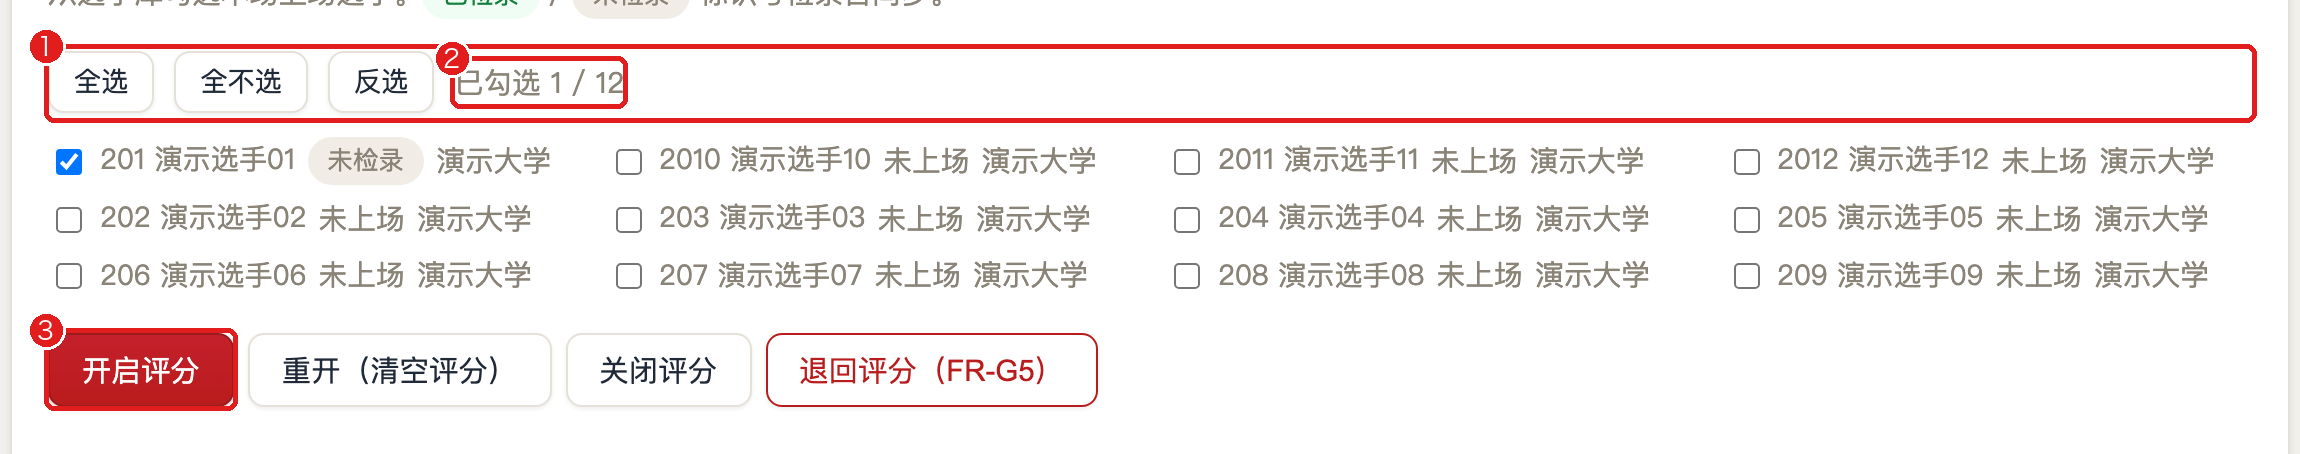
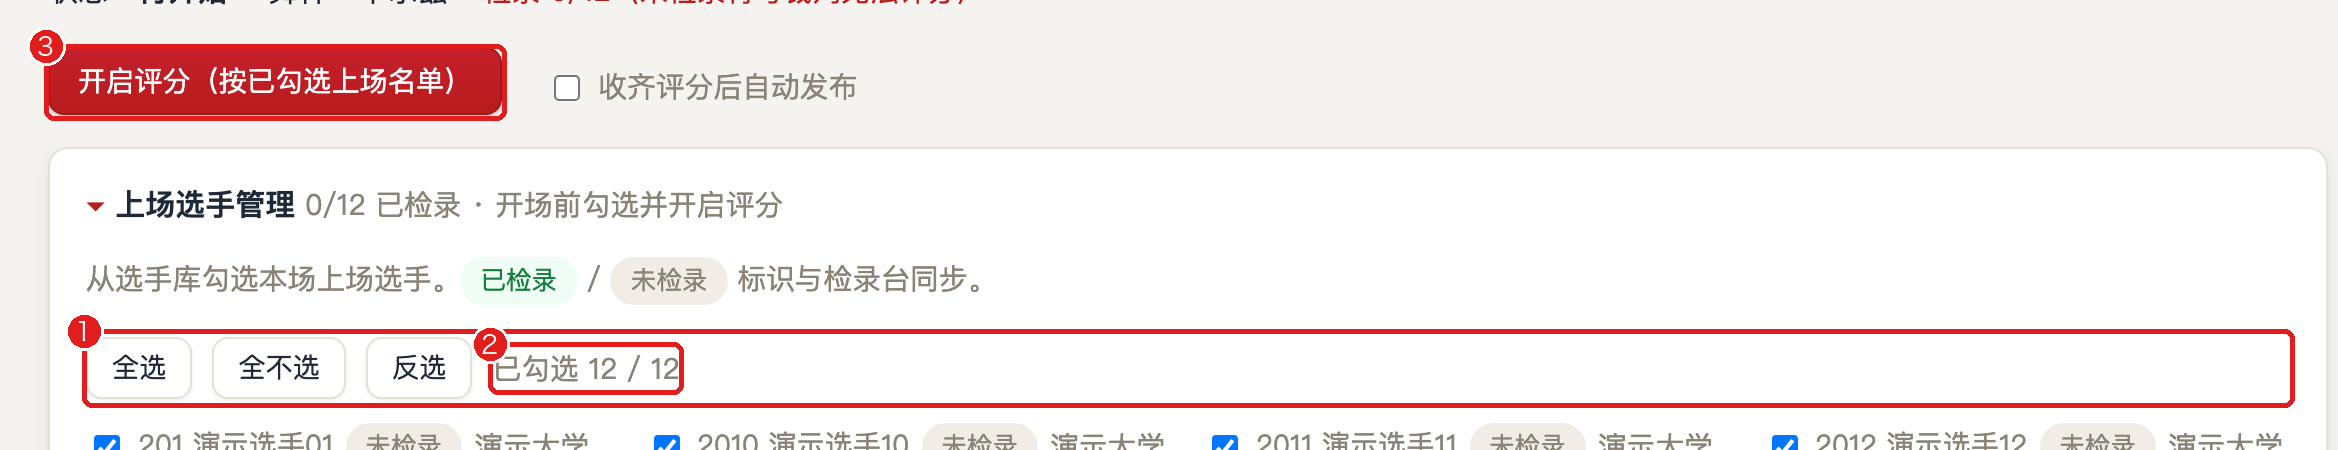
R58说明书v5.0：筹备向导升为开篇首推功能（三步办好一场赛事+实机截图r58）；评分基础卡（顺位法多数票/Mark制晋级勾选/评分制0~10）；全文精简重写（合并多场并行/配色入卡，删冗余描述，角色表补总管理员与赛事管理员）；管理员章节对齐新流程（一键开启评分/晋级引导条/审计）

diff --git a/webapp/server/templates/manual.html b/webapp/server/templates/manual.html
@@ -3,251 +3,172 @@
 {% block nav %}<a href="/">首页</a>{% endblock %}
 {% block content %}
 <h1>赛事评分系统 · 使用说明</h1>
-<p class="muted">本指南面向现场每一类使用者：怎么登录、在赛事的哪个阶段做什么、会看到什么。
-按角色查找你的<b>操作步骤</b>即可，无需了解系统实现。关键步骤配<b>实机标注图</b>（红框 + 编号对应图下说明），
-整体界面另附全页截图。</p>
+<p class="muted">面向体育舞蹈赛事的评分与流程工具。按角色查找你的操作即可；每一步都配实机标注图。</p>
 
 <div class="card">
-  <h2>角色速览：怎么登录、用什么设备</h2>
+  <h2>三步办好一场赛事（新赛事筹备向导）</h2>
+  <p>创建赛事、导入名单、排赛程、建工作人员账号，全部在一个向导里完成。</p>
   <table>
-    <tr><th>角色</th><th>怎么登录</th><th>设备</th><th>参与的阶段</th></tr>
-    <tr><td>管理员</td><td>登录页 → 角色选「管理员」→ 输入管理员口令</td><td>桌面电脑为主</td><td>赛前筹备 · 赛中控制 · 账号管理 · 文件分发 · 赛后收尾</td></tr>
-    <tr><td>检录长 / 检录员</td><td>登录页 → 角色选「检录长/检录员」→ 输入<b>用户名 + 口令</b>（账号由管理员分发）</td><td>手机 / 平板</td><td>每场开始前（检录处）</td></tr>
-    <tr><td>主持人</td><td>登录页 → 角色选「主持人」→ 输入<b>用户名 + 口令</b>（账号由管理员分发）</td><td>手机 / 平板</td><td>开场前补检录 · 成绩播报</td></tr>
-    <tr><td>裁判</td><td><b>免口令直达链接</b>：<code>/login?role=judge&amp;judge=编号</code>（如 J1），建议存为手机书签</td><td>手机</td><td>每场评分</td></tr>
-    <tr><td>观众</td><td>无需登录，直接打开公开页</td><td>手机</td><td>全程查询</td></tr>
-    <tr><td>大屏</td><td>现场屏幕打开大屏页挂机，无需登录</td><td>1080p 大屏</td><td>全程展示</td></tr>
+    <tr><th style="width:6em">第 1 步</th><td><b>总管理员：建赛并发账号</b>——在赛事管理页填写名称/日期/地点，勾选展开「同时创建赛事管理员账号」，一次提交。<span class="muted">只有总管理员能建赛；赛事管理员口令请当面或私密发给组织者。</span></td></tr>
+    <tr><th>第 2 步</th><td><b>赛事管理员：五步筹备向导</b>——用专属入口登录后自动进入向导：① 确认赛事信息 → ② 导入选手 → ③ 导入裁判 → ④ 导入赛程 → ⑤ 创建检录/主持账号 → 完成。每步都有 CSV 模板下载和导入结果反馈。</td></tr>
+    <tr><th>第 3 步</th><td><b>比赛日</b>——控制台「一键开启评分」→ 检录台点名 → 裁判评分 → 收齐自动算分 → 结果中心发布（可开「自动发布」）→ 主持台播报。</td></tr>
   </table>
-  <p class="muted">口令由赛事管理员设定；裁判免口令直达链接请在开赛前向裁判长领取并分发。</p>
+  <img src="/static/manual/r58/wiz1.png" alt="筹备向导：赛事信息" loading="lazy">
+  <img src="/static/manual/r58/wiz2.png" alt="筹备向导：导入选手" loading="lazy">
+  <p class="muted">向导页示例：① 下载模板 ② 选择 CSV ③ 上传导入；页首步骤条显示进度，页面底部实时显示当前数量。</p>
+  <p class="muted">CSV 三列模板要点——选手：<code>背番号,项目编号,姓名,学校/单位</code>（一人多项目填多行，集体舞用 T 编号）；裁判：<code>裁判ID,姓名</code>（建议 5 或 7 名）；赛程：<code>场次编号,场次名称,项目编号,轮次,舞种,评分类型,晋级人数,参赛选手</code>（评分类型填 SKATING/MARK/SCORE；预赛填晋级人数，决赛填 0 且参赛选手可留空）。</p>
 </div>
 
 <div class="card">
   <h2>多场赛事并行</h2>
-  <p>系统支持同时存在<b>多场赛事</b>（如「上半年积分赛」与「秋季公开赛」），各自的数据完全独立。
-  在「赛事管理」页可随时创建新赛事；「激活」不再互斥——多场赛事可同时处于激活中，
-  管理员可在各场的导入、赛程编排、控制台、结果中心之间并行操作。</p>
-  <p>检录台、主持台、裁判工作台、公开赛程/成绩页与现场大屏展示的是其中<b>最新激活</b>的一场（即当前「台前」赛事）。
-  上一场赛事的数据仍然保留，管理员可随时进入其结果中心查看与导出。</p>
+  <p class="muted">多场赛事可同时激活、数据独立；公开页/检录台/裁判台展示最新激活的一场。各赛事由自己的赛事管理员管理，互不干扰。</p>
 </div>
 
 <div class="card">
-  <h2>深浅配色</h2>
-  <p>页面右上角的 🌙 / ☀ 按钮可切换<b>深色 / 浅色</b>模式，选择会自动记忆（手机、平板、桌面通用）；
-  首次打开时跟随系统偏好。现场大屏页固定为深色，不受切换影响。</p>
+  <h2>角色速览</h2>
+  <table>
+    <tr><th>角色</th><th>怎么登录</th><th>设备</th></tr>
+    <tr><td>总管理员</td><td><code>/login</code>，口令由开发者持有（不发放）</td><td>桌面</td></tr>
+    <tr><td>赛事管理员</td><td>本赛事登录页，角色「赛事管理员」+ 用户名口令</td><td>桌面 / 平板</td></tr>
+    <tr><td>检录长 / 检录员</td><td>本赛事登录页，角色「检录长 / 检录员」+ 用户名口令</td><td>手机 / 平板</td></tr>
+    <tr><td>主持人</td><td>本赛事登录页，角色「主持人」+ 用户名口令</td><td>手机 / 平板</td></tr>
+    <tr><td>裁判</td><td>免口令直达链接 <code>/login?role=judge&amp;judge=编号</code></td><td>手机</td></tr>
+    <tr><td>观众</td><td>免登录，直接浏览</td><td>任意</td></tr>
+  </table>
+  <p class="muted">页面右上角 🌙/☀ 切换深浅配色；左上角「体育舞蹈工具箱」可随时回到工具箱首页。</p>
 </div>
 
 <div class="manual-lifecycle card">
-  <h2>赛事生命周期：谁在哪个环节上场</h2>
+  <h2>赛事生命周期</h2>
   <div class="lc-flow">
-    <span>赛前筹备<small>管理员</small></span><i>→</i>
-    <span>账号分发<small>管理员</small></span><i>→</i>
-    <span>检录<small>检录长/检录员 → 主持人</small></span><i>→</i>
+    <span>筹备向导<small>赛事管理员</small></span><i>→</i>
+    <span>开场<small>管理员</small></span><i>→</i>
+    <span>检录<small>检录/主持</small></span><i>→</i>
     <span>评分<small>裁判</small></span><i>→</i>
-    <span>计算·晋级·发布<small>管理员</small></span><i>→</i>
-    <span>成绩播报<small>主持人</small></span><i>→</i>
-    <span>公示查询<small>观众</small></span><i>→</i>
-    <span>大屏展示<small>全程</small></span>
+    <span>算分·发布<small>管理员</small></span><i>→</i>
+    <span>晋级<small>管理员</small></span><i>→</i>
+    <span>播报<small>主持</small></span><i>→</i>
+    <span>公示<small>观众</small></span>
   </div>
 </div>
 
 <div class="manual-nav card">
-  <a href="#admin">🧑💼 管理员</a>
-  <a href="#marshal">📋 检录长 / 检录员</a>
-  <a href="#host">🎙 主持人</a>
+  <a href="#admin">🧑💼 赛事管理员</a>
+  <a href="#score-basics">📖 评分基础</a>
+  <a href="#marshal">📋 检录</a>
+  <a href="#host">🎙 主持</a>
   <a href="#judge">⚖ 裁判</a>
   <a href="#public">👀 观众</a>
   <a href="#screen">📺 大屏</a>
 </div>
 
-<h2 id="admin">一、管理员：从建赛到收官</h2>
-
-<h3>阶段 A · 赛前筹备</h3>
-<div class="step"><h3>第 1 步 · 登录</h3>
-  <p>打开登录页，角色选「管理员」，输入管理员口令。</p>
-  <img src="/static/manual/r50/a-login.png" alt="管理员登录（标注）" loading="lazy">
-  <p class="muted">① 角色选「管理员」　② 输入管理员口令　③ 点「登录」进入系统</p>
-</div>
-<div class="step"><h3>第 2 步 · 创建赛事（支持多场并行）</h3>
-  <p>赛事管理页填写赛事名称（必填）、日期、地点，点「创建」。列表里每场赛事都有独立的「导入 / 赛程 / 结果」入口；
-  未激活的赛事可随时「激活」上线，多场可同时处于激活中（见上文「多场赛事并行」）。</p>
-  <img src="/static/manual/r50/a-events.png" alt="赛事管理：创建与多赛事列表（标注）" loading="lazy">
-  <p class="muted">① 填赛事名称点「创建」　② 每场赛事独立进入 导入 / 赛程 / 结果　③ 未激活的赛事可随时「激活」</p>
-</div>
-<div class="step"><h3>第 3 步 · 分发账号（操作全留痕）</h3>
-  <p>「用户」页为检录长、检录员、主持人创建各自账号（用户名 + 口令），并分发裁判免口令直达链接。
-  停用账号立即踢下线；重置口令后请通知本人。</p>
-  <img src="/static/manual/r50/u-users.png" alt="用户与角色管理" loading="lazy">
-  <p>页首「审计日志」记录全部敏感操作——退回评分、撤销检录、重置口令、停用/启用、删除类操作，
-  每条都有时间、操作人、对象与详情，出争议时倒查有据。</p>
-  <img src="/static/manual/r50/a-users-audit.png" alt="审计日志（标注）" loading="lazy">
-  <p class="muted">① 「审计日志」默认收起，点开即看　② 退回评分 / 撤销检录 / 口令 / 停启用 / 删除 全部署名留痕</p>
-</div>
-<div class="step"><h3>第 4 步 · 导入报名数据</h3>
-  <p>「导入」页依次上传三份表格：选手名单（集体队伍以 T 编号报名）、裁判名单、赛程安排。
-  每类数据都有「下载模板」，表头即解析列；传错的部分会逐行提示，可修正后重传。</p>
-  <img src="/static/manual/r50/a-import.png" alt="导入页标注：模板下载与上传入口" loading="lazy">
-  <p class="muted">① 每类数据都有「下载模板」（表头即解析列）　② 按模板填好后上传　③ 赛程模板含全部列</p>
-</div>
-<div class="step"><h3>第 5 步 · 编排赛程与比赛顺序</h3>
-  <p>「赛程编排」页以项目树展示全部场次（可按状态筛选），支持添加、修改、删除未开始场次，
-  每行可直接进控制台。「比赛顺序（防连场）」自动生成选手休息最充分的走场顺序，可逐行微调后保存；
-  相邻场次同批选手连轴上场会以「连场 N 人」徽章提醒。</p>
+<h2 id="admin">一、赛事管理员：赛事日常管理</h2>
+<div class="step"><h3>数据与名单调整</h3>
+  <p>筹备向导覆盖首次导入；之后的增补修改走两个入口：<b>导入页</b>重传整份 CSV（传错逐行提示，可反复重传），
+  或<b>赛程编排页</b>直接添加/修改/删除未开始场次。已开始评分的场次修改名单会清空评分，请谨慎。</p>
+  <img src="/static/manual/r50/a-import.png" alt="导入页（标注）" loading="lazy">
   <img src="/static/manual/r50/a4-schedule-tree.png" alt="赛程编排与防连场" loading="lazy">
 </div>
-
-<h3>阶段 B · 赛中控制</h3>
-<div class="step"><h3>第 6 步 · 开场与现场监控</h3>
-  <p>场次控制台：确认上场名单后「开启评分」。评分中页首常驻裁判提交进度矩阵（自动实时刷新）
-  与「关闭评分 / 退回评分」快捷操作；上场名单收起为可展开面板，含每名选手的检录状态徽章。</p>
-  <img src="/static/manual/r50/a-console-open.png" alt="开场操作标注：全选与开启评分" loading="lazy">
-  <p class="muted">① 全选/全不选/反选上场选手　② 勾选数实时显示　③ 「开启评分」后裁判即可打分</p>
+<div class="step"><h3>控制台：每场比赛的操作台</h3>
+  <p>状态行常驻「<b>开启评分（按已勾选上场名单）</b>」——名单来自导入/晋级回填，默认已勾选，一键开场。
+  开场后页首常驻裁判提交进度矩阵；随时「关闭评分」或「退回评分」。</p>
+  <img src="/static/manual/r50/a-console-open.png" alt="控制台开场（标注）" loading="lazy">
   <img src="/static/manual/r50/a5-console.png" alt="场次控制台全页" loading="lazy">
 </div>
-<div class="step"><h3>第 7 步 · 晋级确认</h3>
-  <p>预赛算完后在「晋级确认」页选择项目与轮次「生成预案」：按各组名额合并出按总分排序的晋级名单（可增删勾选），
-  确认后名单自动蛇形分配排入下一轮各场次。</p>
+<div class="step"><h3>结果中心：发布与晋级</h3>
+  <p>收齐自动算分；「发布」即上大屏与观众页，可撤回。预赛发布后会出现<b>「下一流程：晋级确认」</b>引导条，
+  点击生成预案、勾选晋级者确认，名单自动蛇形回填到下一轮。</p>
+  <img src="/static/manual/r50/a7-results-center.png" alt="结果中心" loading="lazy">
+  <img src="/static/manual/r50/a-results-publish.png" alt="发布操作（标注）" loading="lazy">
   <img src="/static/manual/r50/a6-advancement.png" alt="晋级确认" loading="lazy">
 </div>
-<div class="step"><h3>第 8 步 · 发布成绩</h3>
-  <p>「结果中心」逐场核对后点「发布」：成绩即刻同步观众查询页与大屏。支持原始打分与判定表查看、
-  整场赛事成绩单下载；发错可「撤回」重发（撤回会留痕到审计日志）。</p>
-  <img src="/static/manual/r50/a7-results-center.png" alt="结果中心" loading="lazy">
-  <img src="/static/manual/r50/a-results-publish.png" alt="发布操作标注" loading="lazy">
-  <p class="muted">① 发布后可随时「撤回发布」重发　② 「原始打分」可查看明细与判定表</p>
-</div>
-
-<h3>阶段 C · 赛后收尾</h3>
-<div class="step"><h3>第 9 步 · 核对团体积分与队伍</h3>
-  <p>「单位与队伍」「团体总分」页核对最终名次与积分（管理口径可选「全部已计算」或「仅已发布」即时重算；
-  观众侧始终只看已发布口径）。</p>
+<div class="step"><h3>团体总分与大屏控制</h3>
+  <p>「团体总分」页核对单位积分（口径可选，仅计已发布场次）；「大屏控制」页可锁定现场大屏画面或恢复自动轮播。</p>
   <img src="/static/manual/r50/a11-team-standings.png" alt="团体总分" loading="lazy">
-</div>
-<div class="step"><h3>第 10 步 · 大屏控制</h3>
-  <p>「大屏控制」页可将现场大屏锁定在指定画面（评分进行中 / 成绩公告 / 团体总分榜 / 欢迎页）或恢复自动轮播，
-  变更即时生效。</p>
   <img src="/static/manual/r50/a12-screen-control.png" alt="大屏控制" loading="lazy">
 </div>
-<div class="step"><h3>第 11 步 · 文件分发（成绩册 / 发布包）</h3>
-  <p>「文件」页提供<b>分层托管</b>：新建一个层（<b>public</b> 任何人可下载 / <b>token</b> 凭证才能下载 / <b>admin</b> 仅管理员），
-  上传文件后点「复制链接」即得到可直接分发的下载地址。同名重复上传即为更新，下载次数自动累计
-  （链接预览、探活不计入）。适合发放成绩册、规程、发布包等赛会材料。</p>
-  <img src="/static/manual/r50/a-files.png" alt="文件分发页（标注）" loading="lazy">
-  <p class="muted">① 新建分层：public 公开 / token 凭证 / admin 管理　② 「复制链接」得到可直接分发的下载地址
-  　③ 选文件上传（同名覆盖，下载次数累计）</p>
+<div class="step"><h3>数据安全</h3>
+  <p>所有评分改动都有追加式历史（旧值→新值+操作人）；退回评分/撤销检录等敏感操作全部记入「用户」页审计日志。
+  支持全量导出（JSON/SQLite）与原子恢复；部署层每日自动备份见 <code>docs/DEPLOY.md</code>。</p>
+  <img src="/static/manual/r50/a-users-audit.png" alt="审计日志与用户管理" loading="lazy">
 </div>
 
-<div class="card">
-  <h2>数据备份与恢复</h2>
-  <p>所有评分改动都有<b>追加式历史</b>（每次修改记录旧值 → 新值与操作人），可逐条追溯。</p>
-  <p>管理员可随时通过备份接口导出<b>全量数据</b>（JSON 结构化备份或 SQLite 整库文件两种格式），
-  并可从备份文件<b>原子恢复</b>（导入在单事务中完成，失败自动回滚不影响现网数据）。
-  部署层面的每日自动备份配置见 <code>docs/DEPLOY.md</code> §5。</p>
-</div>
-
-<h2 id="marshal">二、检录长 / 检录员：每场开始前的检录</h2>
+<h2 id="score-basics">二、评分基础：三种评分制</h2>
 <div class="card manual-note">
-  <b>你的任务</b>：确认哪些选手<b>实际到场</b>。检录完成的背号裁判才能打分；未检录的背号在裁判端自动置灰。
-  个别临时到场的选手可由主持人开赛前在检录台补点。检录记录会署名到操作人。
-</div>
-<div class="step"><h3>第 1 步 · 登录检录台</h3>
-  <p>登录页角色选「检录长/检录员」，输入管理员分发的用户名和口令。手机、平板即可操作。</p>
-  <img src="/static/manual/r50/st-login-marshal.png" alt="检录员登录页" loading="lazy">
-</div>
-<div class="step"><h3>第 2 步 · 逐个背号确认到场</h3>
-  <p>本场场次卡上选手以背号芯片排列：<b>点一下变绿 = 检录完成</b>；点错再点一下取消。
-  人数多时用「全部检录」一键全到，再点掉个别缺席者。顶部实时显示「检录 N / M」。
-  可用页首筛选（全部 / 待检录 / 已完成）和编号搜索快速定位场次。</p>
-  <img src="/static/manual/r50/m-checkin-chips.png" alt="检录台标注：芯片/批量/计数" loading="lazy">
-  <p class="muted">① 点背号变绿=到场，再点取消　② 「全部检录」一键全到　③ 「检录 N / M」实时更新。
-  你会看到：裁判端同步——未检录背号在评分页灰显「🔒 未检录」。</p>
-  <img src="/static/manual/r50/m-checkin-locate.png" alt="检录台筛选与搜索标注" loading="lazy">
-  <p class="muted">场次多时：① 按状态筛选场次　② 输入场次编号回车直接定位。</p>
-</div>
-<div class="step"><h3>第 3 步 · 场次索引（场次很多时）</h3>
-  <p>大型赛事动辄几十场：点页首「<b>场次索引</b>」打开抽屉，按「待检录 / 已完成」分组列出全部场次，
-  点场次名直接跳到该场卡片，免反复滚动寻找。</p>
-  <img src="/static/manual/r50/m-index.png" alt="场次索引入口（标注）" loading="lazy">
-  <p class="muted">① 场次很多时先按编号搜索　② 或点「场次索引」按分组浏览</p>
-  <img src="/static/manual/r50/m-index-drawer.png" alt="场次索引抽屉（标注）" loading="lazy">
-  <p class="muted">③ 按「待检录 / 已完成」分组，点场次名即跳转</p>
+  <b>顺位法（Skating，SKATING）</b>——标准舞/拉丁舞决赛标准用法。
+  每位裁判独立给本场全部选手排名次（1=最好，不并列），<b>不打分、只排名</b>。
+  全部裁判交卷后按 Skating 规则汇总：从第 1 名开始逐席检查，谁先被「过半数裁判」排进名次内谁先得席，
+  平票时比较名次之和。多数票机制让单 位裁判无法操纵结果。</div>
+<div class="card manual-note">
+  <b>Mark 制（MARK）</b>——预赛淘汰专用。裁判不排名次，只<b>勾选应当晋级的选手</b>
+  （通常勾选人数 = 晋级名额）；被过半裁判勾选的选手晋级下一轮。只分「晋级 / 淘汰」，最快速。</div>
+<div class="card manual-note">
+  <b>评分制（SCORE）</b>——集体舞等场合使用。每位裁判按表现给 <b>0~10 分</b>（一位小数），
+  系统汇总全部裁判的分数排出名次。适合需要区分优劣程度的场合。</div>
+<p class="muted">三种制式在赛程里按场次指定，裁判端会自动呈现对应的评分界面，无需裁判自己选择。</p>
+
+<h2 id="marshal">三、检录：确认到场</h2>
+<div class="step"><h3>逐个背号确认到场</h3>
+  <p>检录台按场次列出背号芯片：<b>点一下变绿 = 到场</b>，再点取消；人多用「全部检录」。
+  顶部实时显示「检录 N / M」；可用筛选和编号搜索定位场次，场次很多时点「场次索引」按分组跳转。</p>
+  <img src="/static/manual/r50/m-checkin-chips.png" alt="检录台标注" loading="lazy">
+  <img src="/static/manual/r50/m-checkin-locate.png" alt="筛选与搜索（标注）" loading="lazy">
+  <p class="muted">裁判端同步：未检录背号在评分页灰显「🔒 未检录」。</p>
 </div>
 
-<h2 id="host">三、主持人：开场核对与成绩播报</h2>
-<div class="card manual-note">
-  主持台与检录台是同一个页面（角色选「主持人」登录）。你负责两件事：
-  每场开始前<b>核对/补齐检录</b>，以及每场结束后<b>宣读成绩并打上播报标记</b>。
-</div>
-<div class="step"><h3>第 1 步 · 开场前补齐检录</h3>
-  <p>场次卡上的「检录 N / M」就是本场到场情况。检录处没来得及检录的选手，开场前由你在这里点击补齐；
-  评分已开始后再到场的同样补点，裁判页面会自动出现该背号。</p>
-</div>
-<div class="step"><h3>第 2 步 · 查看成绩公告并宣读</h3>
-  <p>场次计算完成后，该场次会出现在「已完成场次」区，默认收起为一行；
-  点「<b>查看成绩 ▾</b>」即在卡片内原位展开<b>成绩公告</b>——与观众查询页同一套样式
-  （名次 / 背番号 / 选手与队伍 / 总分），再点「收起 ▴」收回，一次展开一场互不堆叠；
-  也可在顶部搜索框输入场次编号（如 F1F）回车直接定位。宣读时若需要纸质稿，点「下载本场成绩单」得到 Markdown 文件。</p>
-  <img src="/static/manual/r50/m-accordion.png" alt="成绩公告展开标注" loading="lazy">
-  <p class="muted">① 「收起 ▴」原位收放　② 公告表可对照宣读　③ 需要纸质稿点下载本场成绩单　④ 宣读完打播报标记</p>
-</div>
-<div class="step"><h3>第 3 步 · 打上播报标记</h3>
-  <p>宣读完成后点「<b>标记已播报</b>」，卡片上会显示「已播报 ✓」徽章。这只是备忘：翻阅列表一眼可知哪些场次已念过、哪些还没念，
-  标错随时可取消，不影响任何比赛数据。</p>
+<h2 id="host">四、主持人：播报</h2>
+<div class="step"><h3>查看成绩公告并播报</h3>
+  <p>已算完的场次出现在「已完成场次」区，点「查看成绩 ▾」原位展开公告（名次/背番号/选手队伍/总分），
+  宣读后点「标记已播报」打勾备忘。需要纸质稿点「下载本场成绩单」。</p>
+  <img src="/static/manual/r50/m-accordion.png" alt="成绩公告展开（标注）" loading="lazy">
 </div>
 
-<h2 id="judge">四、裁判：三步完成一场评分</h2>
+<h2 id="judge">五、裁判：三步完成评分</h2>
 <div class="card manual-note">
-  <b>公平性约定</b>：评分时只见背号，不见姓名与单位；<b>只有已检录的背号可以打分</b>（未到场者灰显「🔒 未检录」，
-  点击会提示）。
-</div>
-<div class="step"><h3>第 1 步 · 打开你的专属链接</h3>
-  <p>赛前领取直达链接（形如 <code>/login?role=judge&amp;judge=J1</code>），手机打开即自动登录，建议存为书签。</p>
+  <b>公平性约定</b>：只见背号不见姓名；只有已检录的背号可评（未到场灰显 🔒）。
+  打分过程中页面自动暂存——锁屏/误刷新/断网后重新打开会恢复，提交成功才清空。</div>
+<div class="step"><h3>第 1 步 · 打开专属链接</h3>
+  <p>赛前领取直达链接（形如 <code>/login?role=judge&amp;judge=J1</code>），打开即自动定位到本赛事，建议存为书签。</p>
   <img src="/static/manual/r50/j-login.png" alt="裁判直达登录（标注）" loading="lazy">
-  <p class="muted">① 裁判 ID 已预填　② 直接登录（免口令）</p>
 </div>
-<div class="step"><h3>第 2 步 · 从工作台点进场次</h3>
-  <p>工作台列出所有待评场次与舞种入口，页首实时显示「待评 N / M」计数；有新开场或变动自动更新。</p>
-  <img src="/static/manual/r50/j-workbench.png" alt="裁判工作台标注" loading="lazy">
-  <p class="muted">① 页首实时「待评 N / M」计数　② 点场次卡上的舞种进入评分</p>
+<div class="step"><h3>第 2 步 · 从工作台进场次</h3>
+  <p>工作台列出所有进行中场次与舞种入口，页首实时显示「待评 N / M」。</p>
+  <img src="/static/manual/r50/j-workbench.png" alt="裁判工作台（标注）" loading="lazy">
 </div>
-<div class="step"><h3>第 3 步 · 按场次类型打分并提交</h3>
-  <p><b>顺位法</b>——两种打分习惯都支持，随时切换：<b>顺序点选</b>按名次依次点选手（点第 1 下就是第 1 名）；
-  <b>直接指定</b>先点选手行选中，再在下方名次键盘上点名次（灰色名次已被占用）。</p>
+<div class="step"><h3>第 3 步 · 按制式打分并提交</h3>
+  <p><b>顺位法</b>——两种习惯任选：<b>顺序点选</b>按名次依次点选手；<b>直接指定</b>先点选手再点下方名次键盘。</p>
   <img src="/static/manual/r50/j-skating.png" alt="顺位法双模式（标注）" loading="lazy">
-  <p class="muted">① 两种模式随时切换　② 按名次依次点选手行　③ 排完点提交；未检录背号灰显不可点</p>
-  <p><b>Mark 制</b>（预赛）：点击选手行给予 Mark（通常为晋级名额数），再点取消，页顶实时显示已选人数。</p>
+  <p><b>Mark 制</b>——点击选手行给予 Mark（通常为晋级名额数），再点取消，页顶实时显示已选人数。</p>
   <img src="/static/manual/r50/j4-mark-selected.png" alt="Mark 制评分" loading="lazy">
-  <p><b>评分制</b>（集体项目）：点输入框用数字键盘给 0~10 分。</p>
+  <p><b>评分制</b>——点输入框给 0~10 分。</p>
   <img src="/static/manual/r50/j-score.png" alt="评分制评分（标注）" loading="lazy">
-  <p class="muted">① 点输入框给 0~10 分　② 实时进度；收齐自动算名次</p>
-  <p class="muted"><b>打分暂存保护</b>：评分过程中页面自动暂存你的打分——手机锁屏、误刷新、网络闪断后重新打开页面，
-  已点的名次 / Mark / 分数会自动恢复；点「提交」成功后才清空暂存。
-  提交后如果场次还没关闭，可以修改重交；最后一名裁判提交完，名次自动产生。</p>
+  <p class="muted">提交后场次未关闭可修改重交；最后一名裁判提交完，名次自动产生（开「自动发布」则直接上大屏）。</p>
 </div>
 
-<h2 id="public">五、观众：随时查询</h2>
+<h2 id="public">六、观众：随时查询</h2>
 <div class="step"><h3>看赛程、查成绩、找选手</h3>
-  <p>无需登录：公开赛程看每场进行状态；公开成绩看已发布的名次（含选手与队伍名称）；
-  「按背番号查询」输入背号即可查到该选手的单位与全部已公布成绩；团体总分页实时更新（仅计已发布场次）。</p>
+  <p>公开赛程看每场状态；公开成绩看已发布名次（含选手与队伍）；「按背番号查询」输入背号即查；
+  团体总分实时更新（仅计已发布场次）。</p>
   <img src="/static/manual/r50/p-results.png" alt="公开成绩与查询（标注）" loading="lazy">
-  <p class="muted">① 锚点条快速跳到场次　② 「按背番号查询」输入背号即可　③ 已发布成绩含选手与队伍名</p>
-  <img src="/static/manual/r50/p-lookup.png" alt="按背番号查询结果（标注）" loading="lazy">
-  <p class="muted">① 输入背番号　② 显示单位与全部已发布成绩</p>
+  <img src="/static/manual/r50/p-lookup.png" alt="背番号查询（标注）" loading="lazy">
   <img src="/static/manual/r50/p3-public-standings.png" alt="团体总分榜" loading="lazy">
 </div>
 
-<h2 id="screen">六、大屏：挂机展示</h2>
+<h2 id="screen">七、大屏：挂机展示</h2>
 <div class="step"><h3>现场大屏</h3>
-  <p>大屏打开后自动轮播：欢迎页 → 评分进行中 → 成绩公告（逐场轮换）→ 团体总分榜；
-  有内容才轮播，都无内容时停留在欢迎页。管理员可在「大屏控制」强制锁定某一画面，变更即时推送。
-  整页按 1080p 设计，永不出现滚动条。</p>
+  <p>自动轮播：欢迎页 → 评分进行中 → 成绩公告（逐场）→ 团体总分榜；有内容才轮播。
+  管理员可强制锁定某一画面，变更即时推送。按 1080p 设计，无滚动条。</p>
   <img src="/static/manual/r50/s-screen-results.png" alt="大屏成绩公告" loading="lazy">
 </div>
 
+<div class="card">
+  <h2>文件分发与数据安全</h2>
+  <p class="muted">「文件」页提供分层托管（public/token/admin 三档权限），上传后复制链接即可分发成绩册、规程等材料。
+  数据安全：评分全程留痕、敏感操作审计、全量导出/原子恢复、每日自动备份（见 docs/DEPLOY.md）。</p>
+</div>
 
-<p class="muted" style="margin-top:2rem">赛事评分系统使用说明 v4.3 · 2026-10-04 · 面向使用者 · 关键步骤配标注实机图 ·
-覆盖多场赛事并行 / 操作留痕 / 文件分发 / 数据备份 / 打分暂存 ·
-舞阵、音乐播放器等其余工具的说明见各自应用内「说明」入口与应用货架 ·
-系统实现细节见 docs/DESIGN.md，部署指南见 docs/DEPLOY.md。</p>
+<p class="muted" style="margin-top:2rem">使用说明 v5.0 · 2026-10-15 · 赛事评分系统 · 筹备向导为首推入口 ·
+评分基础与全角色动线 · 系统细节见 docs/DESIGN.md，部署见 docs/DEPLOY.md，演示见 docs/DEMO.md。</p>
 {% endblock %}
 {% block scripts %}
 {% endblock %}
